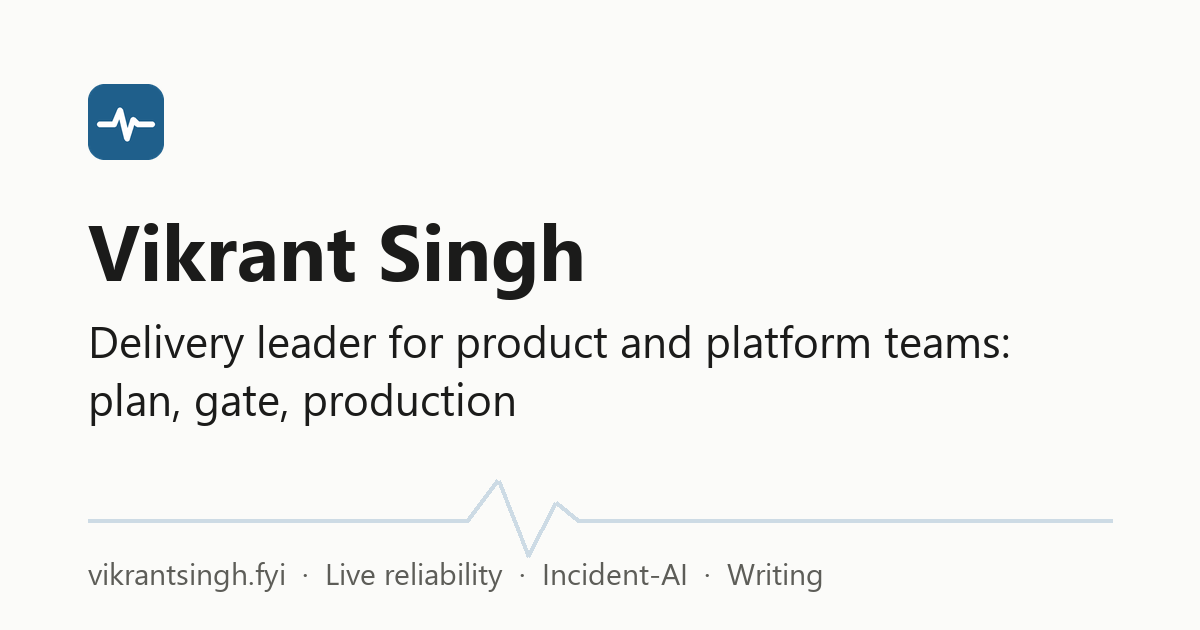
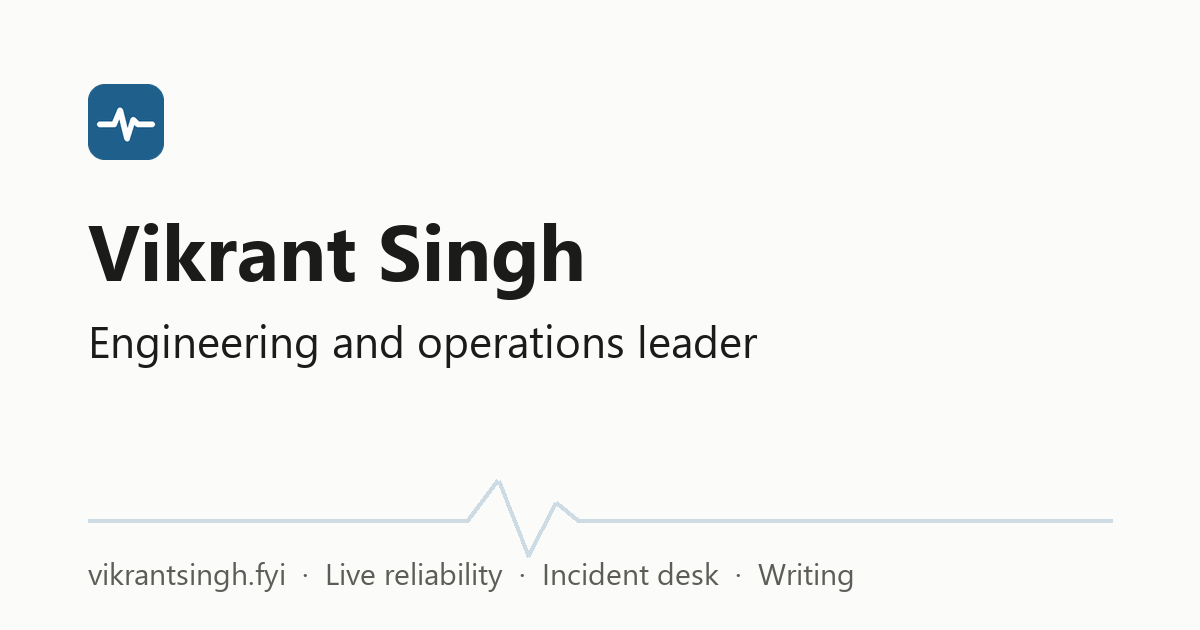
Homepage rewrite: Engineering and operations leader; proof you can open (ADR-022)
Vikrant's copy with review corrections (IT services for fifteen years; ~95% is the
infrastructure for the 22 programs; the CompuCom team supported the estate, the
integration was an SME role; drafts are never sent; only SLO-1 is checked from outside).
Pulse run folded into the reliability proof; Atlas Flow links its live site; 'Scope:'
replaces 'Bound:'; meta description and share image follow the new headline.

Changed region(s): [[0.0617, 0.5127, 0.8325, 0.6937], [0.5242, 0.8746, 0.7092, 0.9349]]

diff --git a/src/data/profile.ts b/src/data/profile.ts
@@ -1,20 +1,15 @@
 // The only place site copy lives. Pages render from this file.
-// Rules: never invent numbers, clients or testimonials. Private workspace names never appear here.
-// Every TODO must be confirmed by Vikrant before P0a ships.
+// Rules: never invent numbers, clients or testimonials. Every figure must trace to the résumé or Vikrant's confirmation.
 
-export interface Exhibit {
-  slug: string;
-  /** Public name, as a recruiter will see it on GitHub or the live site. */
-  name: string;
-  summary: string;
-  /** One-line honest bound. */
-  bound: string;
-  /** The card's one primary action. null = no action yet (nothing half-finished is linked). */
-  link: { label: string; href: string } | null;
-  /** The finished page the card title links to; null = no page yet. */
-  page: string | null;
+export interface Proof {
+  title: string;
+  text: string;
+  /** What it is not. Shown after the text, never first (ADR-022). */
+  scope?: string;
   /** Text status chip (ADR-018): only for something a visitor can see or try right now. */
   chip?: string;
+  /** First link is the primary action; the rest are secondary. */
+  links: { label: string; href: string }[];
 }
 
 export interface Post {
@@ -62,63 +57,70 @@ export function formatDate(iso: string): string {
   return `${d} ${MONTHS[(m ?? 1) - 1]} ${y}`;
 }
 
+// Homepage copy by Vikrant (1 Oct 2026, ADR-022), with factual corrections agreed in review:
+// "IT services" not "software" for fifteen years (2009–2017 was IT operations); the ~95% is the infrastructure
+// for the 22 programs (résumé); the CompuCom team supported the estate, the integration was an SME role (résumé);
+// 55% / 35% are Vikrant's figures (not on the résumé); drafts are never sent by anyone.
 export const profile = {
   name: "Vikrant Singh",
-  // Chosen by Vikrant 30 Sep 2026 (Stage 1.2). LinkedIn must be updated to match word for word (R2).
-  // No "owns the pager" until the heartbeat has 30 days of history plus a game day (ROADMAP Stage 3).
-  headline: "Delivery leader for product and platform teams: plan, gate, production",
-  // Confirmed by Vikrant 30 Sep 2026: CompuCom 2018–2021 (3 years); Virtusa/Citi about 3 years.
-  // Still unconfirmed for public use, so left out: 55% auto-resolve, MTTR −35%.
-  bio: [
-    "I lead delivery of product slices end to end, from the one-pager to production.",
-    "At CompuCom (2018–2021): ServiceNow–Remedy integration and Sev-1/2 operations. At Virtusa for Citi (about 3 years): 22 application programs, design to go-live.",
-    "Today I build AI into operations with a human gate: the AI proposes, people decide.",
+  // Must match the LinkedIn headline (R2). Regenerate public/og.png when it changes (scripts/make-brand-assets.py).
+  headline: "Engineering and operations leader",
+  description:
+    "I lead teams that ship software and keep it running. Delivery across 22 programs at Citi, Sev-1 operations for a 3,000-server government estate, and a site that runs on its own SLOs.",
+  intro: "I lead teams that ship software and keep it running.",
+  story: [
+    "For fifteen years I've been accountable for IT services reaching people and staying up.",
+    "At Citi, through Virtusa, I ran delivery across 22 Trade and Transaction Services programs in North America, from design to go-live; the infrastructure for all 22 landed about 95% on time. Root-cause work on two trade applications cut repeat incidents by 60%.",
+    "For the Government of Ontario, through CompuCom (2018–2021), I led a 15-person global team supporting a 24x7 estate of 3,000+ servers, and was the subject-matter expert on its ServiceNow–Remedy integration. I was the person the client called on Sev-1 and Sev-2, and I ran the response through restore. Fully automated resolution went from zero to 55% of volume, and time to restore fell by 35%.",
   ],
+  principles: {
+    lead: "What I hold a team to.",
+    text: "Work isn't done without tests, monitoring, a way to roll back, and a named person who gets paged. Status means remaining work and risks, not percent complete. When something breaks at 3 a.m., I pick up.",
+  },
+  aim: {
+    lead: "What I'm building toward.",
+    text: "Owning a product team end to end: the build as well as the run.",
+  },
   location: "Toronto, Canada",
   // null = not rendered.
   links: {
     linkedin: "https://www.linkedin.com/in/ssvikrant/",
-    // Set by Vikrant 30 Sep 2026. Must be a working Cloudflare Email Routing address.
     email: "mailto:contact@vikrantsingh.fyi" as string | null,
     medium: "https://medium.com/@svikrant" as string | null,
-    // The account that owns the public engine repo vikrant_perswebsite_incidents_aiengine (verified via gh auth).
     github: "https://github.com/vikiscoding" as string | null,
-    // Web copy (30 Sep 2026): mobile number and personal Gmail removed; contact@vikrantsingh.fyi only.
+    // Web copy: mobile number and personal Gmail removed; contact@vikrantsingh.fyi only.
     resume: "/resume.pdf" as string | null,
   },
-  // One primary call to action per card. Incident-AI first (finished walk), Pulse run last (ADR-015).
-  exhibits: [
+  // "Proof you can open" (ADR-022). Pulse run is folded into the reliability item (it feeds the client-side signal).
+  // Never point Atlas Flow at the Incident-AI videos; its repo is in a private client organisation.
+  proof: [
     {
-      slug: "incident-ai",
-      name: "Incident-AI",
-      summary:
-        "Incident triage where the AI drafts and a human authorizes. Folder is the ticket. If the model is down, the path still works.",
-      bound: "Python on GitHub Actions, handling one small site's real incidents. Not ServiceNow.",
-      link: { label: "Watch the walk (~14 min)", href: "https://youtu.be/j048FYXrRqs" },
-      page: "/exhibits/incident-ai/",
+      title: "This site's reliability",
       chip: "Live",
+      text: "Two service level objectives with live error budgets; an outside probe checks the site every five minutes, and a 30-second game feeds its browser-side numbers. I broke the site on purpose and published the postmortem: eight findings, each with an action and a status.",
+      links: [
+        { label: "Live reliability", href: "/reliability/" },
+        { label: "Postmortem", href: "/notes/postmortem-game-day-1/" },
+        { label: "Play the game", href: "/play/" },
+      ],
     },
     {
-      slug: "atlas-flow",
-      name: "Atlas Flow",
-      summary: "Live TypeScript/Node write path: form to server action to a SharePoint row, in production.",
-      bound: "A marketing site in production, not a system with millions of members.",
-      // Hidden until the written walk exists (30 Sep 2026): no link, no "in progress" page linked.
-      // When it's written: link { label: "Read the walk", href: "/exhibits/atlas-flow/" }, page: "/exhibits/atlas-flow/".
-      // Never point it at the Incident-AI videos; its repo is in a private client organisation.
-      link: null,
-      page: null,
+      title: "Incident desk",
+      chip: "Live",
+      text: "Real alerts from this site go to an AI that proposes triage and drafts updates. Drafts are never sent; priority, resolving and closing are always a person's call, in public GitHub issues. If the model is down, the incident record still works.",
+      scope: "a Python engine running one site's incidents, not ServiceNow.",
+      links: [
+        { label: "Watch the walkthrough (~14 min)", href: "https://youtu.be/j048FYXrRqs" },
+        { label: "See it live", href: "/reliability/#incident-desk" },
+        { label: "How it works", href: "/exhibits/incident-ai/" },
+      ],
     },
     {
-      // ADR-015: exhibit three, a client-path testbed. Never the hero; no numbers here until real samples exist;
-      // never linked to the Incident-AI or Atlas videos or essays.
-      slug: "pulse-run",
-      name: "Pulse run",
-      summary: "Tiny browser runner used as a client perf and error-budget testbed on this same site.",
-      bound: "A 30-second toy, not a product.",
-      link: { label: "Play 30 seconds →", href: "/play/" },
-      page: "/play/",
-      chip: "Playable",
+      title: "Atlas Flow",
+      text: "A live TypeScript/Node write path: web form, server-side validation, then a row written to SharePoint in production.",
+      scope: "a marketing site, not a system with millions of members.",
+      links: [{ label: "Open the live site", href: "https://atlasflowgroup.com" }],
     },
-  ] satisfies Exhibit[],
+  ] satisfies Proof[],
+  writingBlurb: "Short essays on putting AI into operations without losing track of who decides.",
 } as const;

diff --git a/scripts/make-brand-assets.py b/scripts/make-brand-assets.py
@@ -80,7 +80,7 @@ def share_image() -> Image.Image:
     # Faint heartbeat trace above the footer: the site's theme, not decoration for its own sake.
     base, beat = 520, [(0, 0), (380, 0), (410, -40), (440, 36), (468, -18), (490, 0), (W - 2 * M, 0)]
     d.line([(M + x, base + yy) for x, yy in beat], fill=(205, 219, 229), width=4, joint="curve")
-    d.text((M, 552), "vikrantsingh.fyi  ·  Live reliability  ·  Incident-AI  ·  Writing", font=small, fill=MUTED)
+    d.text((M, 552), "vikrantsingh.fyi  ·  Live reliability  ·  Incident desk  ·  Writing", font=small, fill=MUTED)
     return img
 
 

diff --git a/docs/adr/README.md b/docs/adr/README.md
@@ -14,6 +14,7 @@ ADRs 001–009 were decided in the original design review; their decision, the r
 | 008 | No fault injection on systems other people depend on | A client's live site as system under test | Accepted |
 | 009 | P0 ships on a `workers.dev` preview; domain cutover is P0b | Blocking first ship on DNS | Accepted |
 | [010](010-clock-driven-heartbeat.md) | A clock-driven heartbeat (ticker → KV → page read → probe) is the system under test; contact form moves to P3 | Probing the contact form | Accepted |
+| 022 | Homepage rewrite by Vikrant: headline "Engineering and operations leader", outcome-first intro, the record (Citi/Virtusa, Ontario/CompuCom), what I hold a team to, "Proof you can open" (this site's reliability with Pulse run folded in, incident desk, Atlas Flow linking its live site), writing, contact. "Scope:" replaces "Bound:" sitewide. Review corrections applied: fifteen years of *IT services*, ~95% is the infrastructure for the 22 programs, the CompuCom team supported the estate (the integration was an SME role), drafts are never sent, only SLO-1 is checked from outside | "Delivery leader" headline; bounds that opened with what a thing is not; "not a bank stack" | Accepted, 1 Oct 2026 |
 | 021 | The live desk never lets the model set priority on its own (`TRIAGE_AUTO_APPLY=off` in the engine's live workflow): every AI priority, even Low at high confidence, waits for `/approve`. Stated on the site: AI priority never pages anyone; paging comes only from the outside probe on the SLO (panel: SRE, AI-safety reviewer, engineering manager, the essay's own rule) | Auto-applying Low/Medium at ≥ 0.8 confidence on live incidents (a confident downgrade is the failure the essay names) | Accepted, 1 Oct 2026 |
 | 020 | Publish this repo (panel: security engineer, hiring manager, open-source maintainer, privacy advisor): same repo so CI/CD and wiring stay intact; secrets scan of all history (clean); personal planning moved to a private notes repo; engineering-only README, AGENTS, ROADMAP and STATUS; client names generalised; fresh single-commit history; LICENSE all rights reserved, source readable; linked from *How this site is run*, not the homepage | A second public mirror (two deploy sources); publishing with history (contained private planning); an open-source licence for personal content | Accepted, 1 Oct 2026 |
 | 019 | Pulse run invitation (panel: product designer, privacy specialist, SRE, recruiter): card button "Play 30 seconds →"; `/play/` opens with what is collected; game over shows the visitor's own run, computed in the browser ("sent", not "recorded"), linking `/reliability/#client-path`; the dashboard offers "Add a data point" | "Today's best" score and any leaderboard (spoofable public beacon; product creep); "stress test" wording (false) | Accepted, 1 Oct 2026 |

diff --git a/AGENTS.md b/AGENTS.md
@@ -27,7 +27,8 @@ Vikrant Singh's public site (headline, three exhibits, résumé, contact) plus a
 
 ## Rules
 
-- **Three exhibits, no more** (ADR-015): Incident-AI, Atlas Flow, and Pulse run (a bounded client-path testbed, never the homepage hero). No second game on this domain. Never add other projects.
+- **Three proof items, no more** (ADR-022): this site's reliability (with Pulse run inside it), the incident desk, Atlas Flow. Pulse run is a bounded client-path testbed, never the homepage hero; no second game on this domain. Never add other projects.
+- **Every figure traces to the résumé or Vikrant's explicit confirmation.** "Scope:" lines say what a thing is not; they come after the text, never first.
 - **Pulse run copy:** never "production-grade gaming platform"; no invented SLOs; no numbers on the home card until real samples exist; never link it to the Incident-AI or Atlas Flow videos or essays.
 - **The incident desk only reports, never decides** (ADR-016): the Worker sends `site_alert`/`site_recovered`; every decision after intake is the owner's command on GitHub. Never add a visitor-triggered incident path.
 - **`/api/rum` is the only public write path.** Validate everything (origin, size, type, bounds), store no IP, user agent or cookie, and never feed it into an SLO or an alert. Update `/privacy` before changing what it collects.
